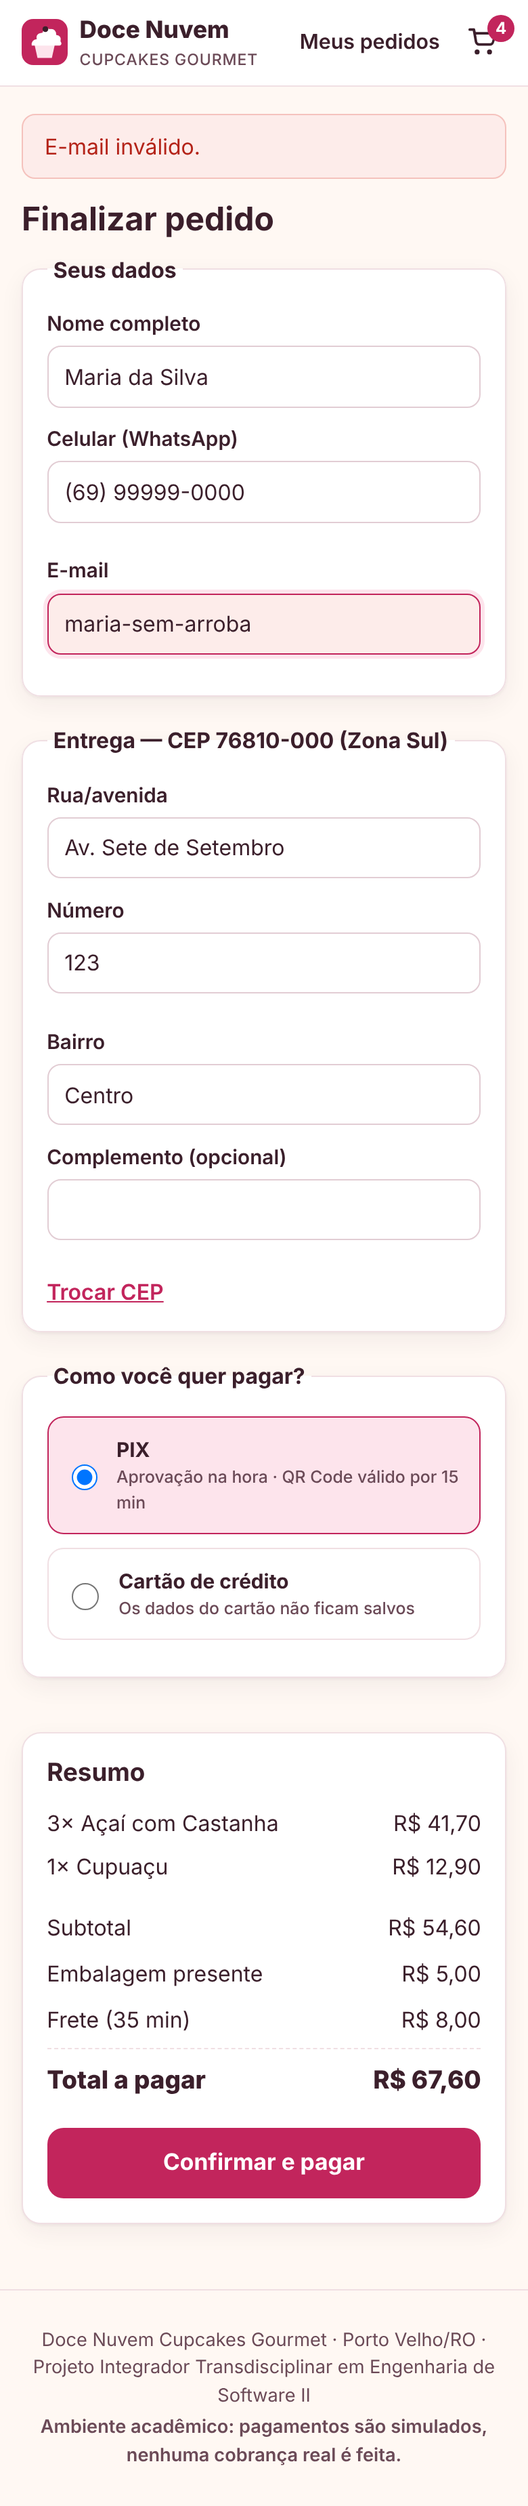
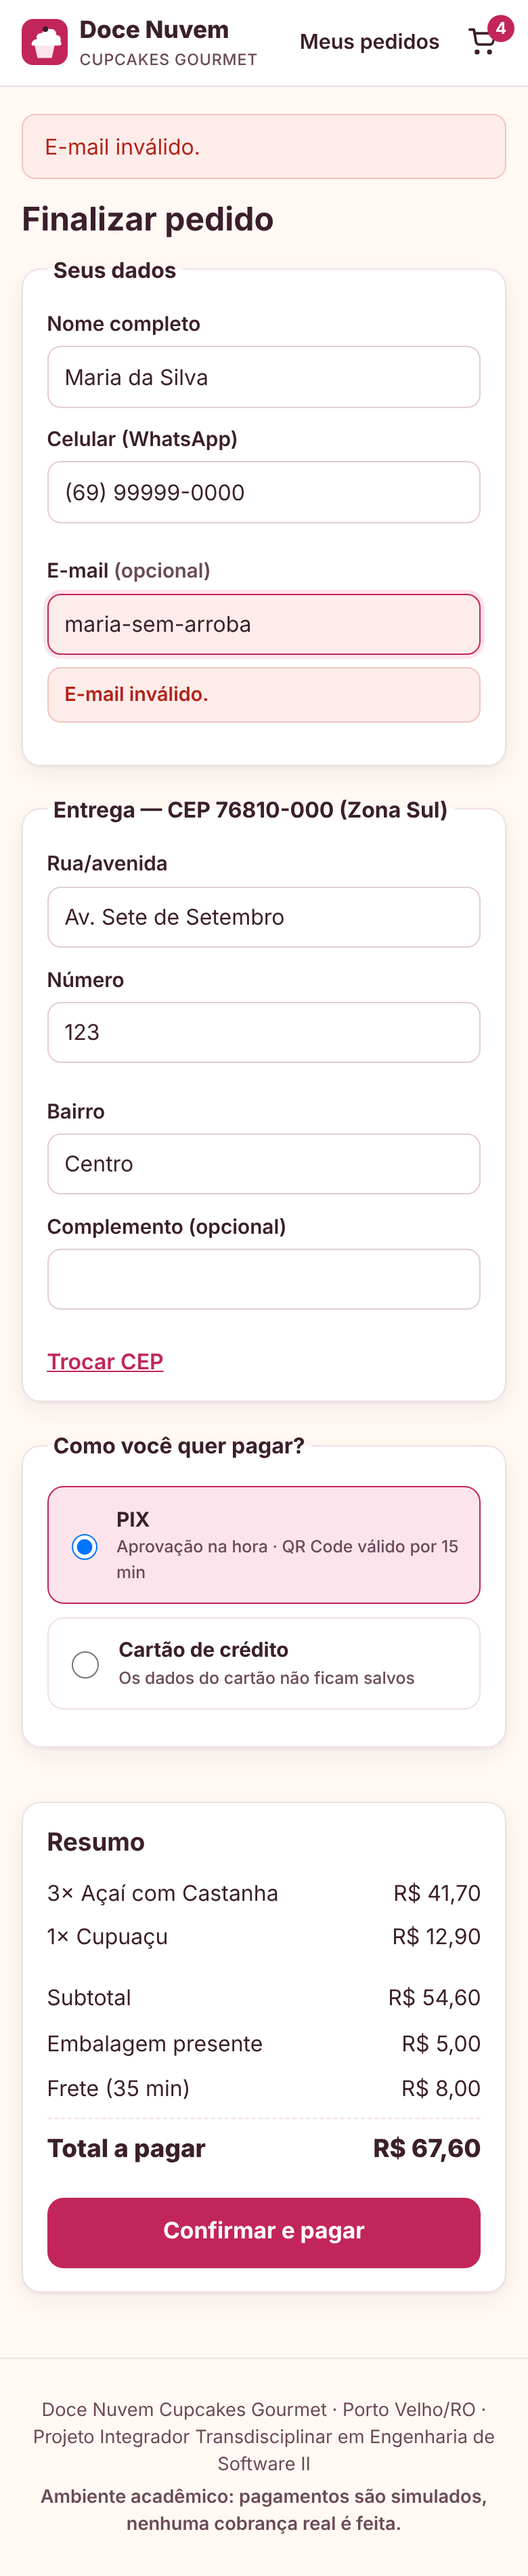
fix(v1.1): e-mail opcional e pagamento com cartão (validade MM/AAAA, erro junto ao campo) — avaliação de Fernando Miranda
Claude-Session: https://claude.ai/code/session_01KZW3ixzrm5CSdfKWyFAdsB

diff --git a/app/templates/checkout/checkout.html b/app/templates/checkout/checkout.html
@@ -1,6 +1,7 @@
 {% extends "base.html" %}
 {% block titulo %}Finalizar pedido — Doce Nuvem{% endblock %}
-{% macro invalido(campo) %}{% if erro_campo == campo %} aria-invalid="true" autofocus{% endif %}{% endmacro %}
+{% macro invalido(campo) %}{% if erro_campo == campo %} aria-invalid="true" autofocus aria-describedby="erro-{{ campo }}"{% endif %}{% endmacro %}
+{% macro msg(campo) %}{% if erro_campo == campo and erro_msg %}<p class="erro-inline" id="erro-{{ campo }}" role="alert">{{ erro_msg }}</p>{% endif %}{% endmacro %}
 {% block conteudo %}
 <h1>Finalizar pedido</h1>
 <form class="duas-colunas" method="post" action="{{ url_for('checkout.finalizar') }}" novalidate data-checkout>
@@ -9,24 +10,24 @@
     <fieldset class="caixa">
       <legend>Seus dados</legend>
       <div class="campo"><label for="nome">Nome completo</label>
-        <input id="nome" name="nome" autocomplete="name" maxlength="80" required value="{{ form.nome }}"{{ invalido('nome') }}></div>
+        <input id="nome" name="nome" autocomplete="name" maxlength="80" required value="{{ form.nome }}"{{ invalido('nome') }}>{{ msg('nome') }}</div>
       <div class="grade-2">
         <div class="campo"><label for="telefone">Celular (WhatsApp)</label>
-          <input id="telefone" name="telefone" inputmode="tel" autocomplete="tel" placeholder="(69) 99999-0000" maxlength="15" required value="{{ form.telefone }}" data-mascara-telefone{{ invalido('telefone') }}></div>
-        <div class="campo"><label for="email">E-mail</label>
-          <input id="email" name="email" type="email" autocomplete="email" maxlength="120" required value="{{ form.email }}"{{ invalido('email') }}></div>
+          <input id="telefone" name="telefone" inputmode="tel" autocomplete="tel" placeholder="(69) 99999-0000" maxlength="15" required value="{{ form.telefone }}" data-mascara-telefone{{ invalido('telefone') }}>{{ msg('telefone') }}</div>
+        <div class="campo"><label for="email">E-mail <small class="muted">(opcional)</small></label>
+          <input id="email" name="email" type="email" autocomplete="email" maxlength="120" value="{{ form.email }}"{{ invalido('email') }}>{{ msg('email') }}</div>
       </div>
     </fieldset>
 
     <fieldset class="caixa">
       <legend>Entrega — CEP {{ cep|cep }} ({{ zona.nome }})</legend>
       <div class="campo"><label for="logradouro">Rua/avenida</label>
-        <input id="logradouro" name="logradouro" autocomplete="address-line1" maxlength="120" required value="{{ form.logradouro }}"{{ invalido('logradouro') }}></div>
+        <input id="logradouro" name="logradouro" autocomplete="address-line1" maxlength="120" required value="{{ form.logradouro }}"{{ invalido('logradouro') }}>{{ msg('logradouro') }}</div>
       <div class="grade-2">
         <div class="campo"><label for="numero">Número</label>
-          <input id="numero" name="numero" maxlength="10" required value="{{ form.numero }}"{{ invalido('numero') }}></div>
+          <input id="numero" name="numero" maxlength="10" required value="{{ form.numero }}"{{ invalido('numero') }}>{{ msg('numero') }}</div>
         <div class="campo"><label for="bairro">Bairro</label>
-          <input id="bairro" name="bairro" maxlength="60" required value="{{ form.bairro }}"{{ invalido('bairro') }}></div>
+          <input id="bairro" name="bairro" maxlength="60" required value="{{ form.bairro }}"{{ invalido('bairro') }}>{{ msg('bairro') }}</div>
       </div>
       <div class="campo"><label for="complemento">Complemento (opcional)</label>
         <input id="complemento" name="complemento" maxlength="60" value="{{ form.complemento }}"></div>
@@ -35,6 +36,7 @@
 
     <fieldset class="caixa{% if erro_campo in ('metodo','pagamento','numero_cartao','validade','cvv','nome_cartao') %} caixa--erro{% endif %}">
       <legend>Como você quer pagar?</legend>
+      {{ msg('pagamento') }}{{ msg('metodo') }}
       <label class="opcao"><input type="radio" name="metodo" value="PIX" {% if form.metodo != 'CARTAO' %}checked{% endif %} data-metodo>
         <span><strong>PIX</strong><small>Aprovação na hora · QR Code válido por 15 min</small></span></label>
       <label class="opcao"><input type="radio" name="metodo" value="CARTAO" {% if form.metodo == 'CARTAO' %}checked{% endif %} data-metodo>
@@ -42,14 +44,14 @@
 
       <div class="cartao" data-cartao {% if form.metodo != 'CARTAO' %}hidden{% endif %}>
         <div class="campo"><label for="numero_cartao">Número do cartão</label>
-          <input id="numero_cartao" name="numero_cartao" inputmode="numeric" autocomplete="cc-number" maxlength="23" placeholder="0000 0000 0000 0000" data-mascara-cartao{{ invalido('numero_cartao') }}></div>
+          <input id="numero_cartao" name="numero_cartao" inputmode="numeric" autocomplete="cc-number" maxlength="23" placeholder="0000 0000 0000 0000" data-mascara-cartao{{ invalido('numero_cartao') }}>{{ msg('numero_cartao') }}</div>
         <div class="campo"><label for="nome_cartao">Nome impresso no cartão</label>
-          <input id="nome_cartao" name="nome_cartao" autocomplete="cc-name" maxlength="60"{{ invalido('nome_cartao') }}></div>
+          <input id="nome_cartao" name="nome_cartao" autocomplete="cc-name" maxlength="60"{{ invalido('nome_cartao') }}>{{ msg('nome_cartao') }}</div>
         <div class="grade-2">
           <div class="campo"><label for="validade">Validade</label>
-            <input id="validade" name="validade" inputmode="numeric" autocomplete="cc-exp" placeholder="MM/AA" maxlength="7" data-mascara-validade{{ invalido('validade') }}></div>
+            <input id="validade" name="validade" inputmode="numeric" autocomplete="cc-exp" placeholder="MM/AA ou MM/AAAA" maxlength="7" data-mascara-validade{{ invalido('validade') }}>{{ msg('validade') }}</div>
           <div class="campo"><label for="cvv">CVV</label>
-            <input id="cvv" name="cvv" inputmode="numeric" autocomplete="cc-csc" maxlength="4"{{ invalido('cvv') }}></div>
+            <input id="cvv" name="cvv" inputmode="numeric" autocomplete="cc-csc" maxlength="4"{{ invalido('cvv') }}>{{ msg('cvv') }}</div>
         </div>
         <p class="muted">Ambiente de teste: use <code>4111 1111 1111 1111</code> (aprovado) ou <code>4000 0000 0000 0002</code> (recusado).</p>
       </div>

diff --git a/app/static/css/style.css b/app/static/css/style.css
@@ -205,3 +205,4 @@ input:focus, textarea:focus { border-color: var(--framboesa); outline: none; box
 .destaque-presente { background: var(--ambar-claro); padding: .4rem .6rem; border-radius: 8px; font-weight: 700; }
 
 @media (prefers-reduced-motion: reduce) { * { animation: none !important; transition: none !important; } }
+fieldset .erro-inline[role="alert"] { background: var(--erro-claro); border: 1px solid #f5c2bd; border-radius: 10px; padding: .55rem .75rem; font-weight: 600; }

diff --git a/tests_front/utils.test.js b/tests_front/utils.test.js
@@ -34,7 +34,8 @@ test('máscara de cartão agrupa de 4 em 4', () => {
 test('máscara de validade MM/AA', () => {
   assert.equal(U.mascaraValidade('1'), '1');
   assert.equal(U.mascaraValidade('1235'), '12/35');
-  assert.equal(U.mascaraValidade('12/3599'), '12/35');
+  assert.equal(U.mascaraValidade('122030'), '12/2030');   // ano com 4 dígitos (v1.1)
+  assert.equal(U.mascaraValidade('12/203099'), '12/2030');
 });
 
 test('algoritmo de Luhn igual ao do back-end', () => {

diff --git a/app/static/js/utils.js b/app/static/js/utils.js
@@ -34,8 +34,10 @@
     return d.replace(/(.{4})/g, '$1 ').trim();
   }
 
+  /** aceita MM/AA e MM/AAAA. Antes (v1.0) cortava em 4 dígitos: quem digitava 12/2030
+   *  ficava com 12/20 e recebia "Cartão vencido" (defeito relatado por Fernando Miranda). */
   function mascaraValidade(texto) {
-    var d = soDigitos(texto).slice(0, 4);
+    var d = soDigitos(texto).slice(0, 6);
     return d.length > 2 ? d.slice(0, 2) + '/' + d.slice(2) : d;
   }
 

diff --git a/tests/test_integracao.py b/tests/test_integracao.py
@@ -155,6 +155,26 @@ def test_uc04_cartao_nunca_e_salvo_completo(client, csrf, app):
     assert "cvv" not in dump.lower()               # não existe nem coluna de CVV
 
 
+def test_v11_email_e_opcional(client, csrf, app):
+    """Fernando Miranda: e-mail não precisa ser obrigatório."""
+    encher_carrinho_e_frete(client, csrf)
+    r = client.post("/checkout/", data={**DADOS_CLIENTE, "email": "", "_csrf": csrf, "metodo": "CARTAO",
+                                        "numero_cartao": "4111111111111111", "nome_cartao": "MARIA", "validade": "12/35", "cvv": "123"})
+    assert r.status_code == 302
+    with app.app_context():
+        from app.db import get_db
+        assert get_db().execute("SELECT email FROM cliente").fetchone()[0] == ""
+
+
+def test_v11_erro_do_cartao_aparece_junto_ao_pagamento(client, csrf):
+    """Fernando Miranda não conseguiu pagar com cartão: no celular a mensagem ficava só no topo da página."""
+    encher_carrinho_e_frete(client, csrf)
+    html = client.post("/checkout/", data={**DADOS_CLIENTE, "_csrf": csrf, "metodo": "CARTAO",
+                                           "numero_cartao": "4111111111111111", "nome_cartao": "MARIA",
+                                           "validade": "12/20", "cvv": "123"}).get_data(as_text=True)
+    assert re.search(r'id="validade"[^>]*aria-invalid="true"[^>]*>\s*<p class="erro-inline" id="erro-validade" role="alert">Cartão vencido.', html)
+
+
 def test_uc04_cartao_recusado_nao_cria_pedido(client, csrf, app):
     encher_carrinho_e_frete(client, csrf)
     r = client.post("/checkout/", data={**DADOS_CLIENTE, "_csrf": csrf, "metodo": "CARTAO",
@@ -391,7 +411,8 @@ def test_v11_migracao_preserva_pedidos_de_banco_antigo(tmp_path):
         db = get_db()
         assert db.execute("SELECT COUNT(*) FROM pedido WHERE codigo='ANTIGO01'").fetchone()[0] == 1
         assert db.execute("SELECT COUNT(*) FROM cupcake").fetchone()[0] == 15
-        assert db.execute("PRAGMA user_version").fetchone()[0] == 2
+        assert db.execute("PRAGMA user_version").fetchone()[0] == 3
+        assert db.execute("SELECT COUNT(*) FROM cliente").fetchone()[0] == 1
     create_app(TestConfig, DATABASE=str(caminho))  # segunda vez: nada a migrar, nada duplica
     con = sqlite3.connect(caminho)
     assert con.execute("SELECT COUNT(*) FROM cupcake").fetchone()[0] == 15

diff --git a/app/controllers/checkout.py b/app/controllers/checkout.py
@@ -78,10 +78,12 @@ def finalizar():
         )
     except ValidacaoErro as e:
         flash(e.mensagem, "erro")
-        return render_template("checkout/checkout.html", **resumo, form=seguro, erro_campo=e.campo), 422
+        return render_template("checkout/checkout.html", **resumo, form=seguro, erro_campo=e.campo,
+                               erro_msg=e.mensagem), 422
     except RegraNegocioErro as e:
         flash(e.mensagem, "erro")
-        return render_template("checkout/checkout.html", **resumo, form=seguro, erro_campo="pagamento"), 422
+        return render_template("checkout/checkout.html", **resumo, form=seguro, erro_campo="pagamento",
+                               erro_msg=e.mensagem), 422
 
     current_app.logger.info("Pedido %s criado (%s)", codigo, pagamento["metodo"])
     for chave in ("carrinho", "embalagem_presente", "mensagem_presente", "checkout_form"):

diff --git a/app/services/validacao.py b/app/services/validacao.py
@@ -25,7 +25,7 @@ def validar_cliente(dados: dict) -> dict:
     if len(telefone) not in (10, 11):
         raise ValidacaoErro("Telefone deve ter DDD + número (10 ou 11 dígitos).", campo="telefone")
     email = (dados.get("email") or "").strip().lower()
-    if not _EMAIL_RE.match(email) or len(email) > 120:
+    if email and (not _EMAIL_RE.match(email) or len(email) > 120):  # opcional desde a v1.1
         raise ValidacaoErro("E-mail inválido.", campo="email")
     return {"nome": nome, "telefone": telefone, "email": email}
 

diff --git a/app/db.py b/app/db.py
@@ -66,6 +66,7 @@ def aplicar_migracoes(db=None) -> list[str]:
             if "enfeite" not in cols:
                 db.execute("ALTER TABLE cupcake ADD COLUMN enfeite TEXT NOT NULL DEFAULT 'cereja' CHECK (enfeite IN "
                            "('cereja','morango','chocolate','limao','ervas','acai','cupuacu','coco','nenhum'))")
+        db.commit()
         db.executescript(arq.read_text(encoding="utf-8"))
         db.execute(f"PRAGMA user_version = {numero}")
         db.commit()

diff --git a/tests_e2e/test_sistema_navegador.py b/tests_e2e/test_sistema_navegador.py
@@ -202,7 +202,7 @@ def test_cartao_recusado_e_carrinho_vazio(servidor, navegador):
     page.fill("#validade", "12/35")
     page.fill("#cvv", "123")
     page.click("[data-enviar]")
-    assert page.inner_text(".erro-inline") == "Número do cartão inválido."
+    expect(page.locator("#numero_cartao ~ .erro-inline")).to_have_text("Número do cartão inválido.")
 
     page.goto(servidor + "/nao-existe")
     _foto(page, "15-erro-404", pagina_inteira=False)

diff --git a/tests/test_unit_servicos.py b/tests/test_unit_servicos.py
@@ -130,6 +130,10 @@ def test_validar_cartao_erros(numero, validade, cvv, nome, campo):
     assert e.value.campo == campo
 
 
+def test_validade_com_ano_de_4_digitos():
+    assert validar_cartao("4111111111111111", "12/2030", "123", "MARIA", hoje=date(2026, 11, 17)) == "1111"
+
+
 def test_cartao_do_mes_corrente_ainda_vale():
     assert validar_cartao("4111111111111111", "11/26", "123", "MARIA", hoje=date(2026, 11, 17)) == "1111"
 

diff --git a/docs/03-situacao-3-testes-validacao/03-resultado-avaliacoes.md b/docs/03-situacao-3-testes-validacao/03-resultado-avaliacoes.md
@@ -7,7 +7,7 @@
 | 1 | Nataska Wanssa | 17/11/2026 | | (a) Ao filtrar "Regionais", a busca digitada antes continuava aplicada. (b) A busca não era automática: só filtrava ao clicar em "Buscar". (c) Os regionais tinham imagens iguais às dos outros. (d) Faltavam bebidas: água e Coca normal. | | (a) Trocar de categoria limpa a busca, e há o link "✕ Limpar busca". (b) Busca ao vivo enquanto digita, sem diferenciar acentos e maiúsculas. (c) Cada sabor ganhou um enfeite próprio: açaí com castanha, cupuaçu aberto, coco, morango, limão, chocolate e ervas. (d) Nova categoria **Bebidas** com água sem gás, água com gás, Coca-Cola e Coca-Cola Zero. |
 | 2 | Leopoldo Fuji | | | | | |
 | 3 | Leonardo Gobbi | 17/11/2026 | | Não gostou do estilo das imagens; preferia fotos mais realistas, porque as ilustrações não estavam atrativas. | | Ilustrações refeitas com volume: gradientes, cobertura em camadas, brilho e sombra. **Fotos reais ficaram no Roadmap (v1.3):** precisam ser fotos dos produtos da própria loja. Usar fotos de banco de imagens mostraria ao cliente um produto que ele não vai receber, o que contraria a US01. |
-| 4 | Fernando Miranda | | | | | |
+| 4 | Fernando Miranda | 17/11/2026 | | (a) Não gostou de o e-mail ser obrigatório. (b) Não conseguiu comprar com cartão. | | (a) E-mail passou a ser **opcional** (validado só se preenchido); a tabela `cliente` foi recriada pela migração 003, preservando os dados. (b) Causa encontrada: a máscara da validade cortava o ano em 2 dígitos, então quem digitava **12/2030** ficava com **12/20** e recebia "Cartão vencido". Além disso, a mensagem de erro aparecia só no topo da página, fora da vista no celular. Correções: a máscara aceita MM/AAAA, e o erro agora aparece **ao lado do campo** e da seção de pagamento. |
 | 5 | Luiz Cláudio | 17/11/2026 | | Digitou um CEP diferente do sugerido no roteiro e o frete foi recusado. | | Causa: a faixa da zona Centro começava em 76800-001 e excluía **76800-000**, o CEP geral de Porto Velho. Faixa corrigida por migração do banco, e a mensagem agora informa os CEPs atendidos ("76800-000 a 76834-999"). CEPs de outras cidades continuam recusados, como manda a regra de negócio (US08). |
 
 ## Melhorias incorporadas após as avaliações (versão 1.1)
@@ -20,5 +20,7 @@
 | Água e Coca | Nataska | ✅ Feito (categoria Bebidas) | `test_v11_categoria_bebidas_com_agua_e_coca`, `test_v11_bebida_vai_ao_carrinho_e_ao_pedido` |
 | Imagens mais atrativas | Leonardo | ✅ Parcial: ilustrações com volume. Fotos reais → Roadmap v1.3 | captura `13-vitrine-desktop.png` |
 | CEP de Porto Velho recusado | Luiz Cláudio | ✅ Corrigido | `test_v11_cep_geral_de_porto_velho_e_aceito` |
+| E-mail opcional | Fernando | ✅ Feito | `test_v11_email_e_opcional` |
+| Compra com cartão falhando | Fernando | ✅ Corrigido (validade MM/AAAA + erro junto ao campo) | `test_validade_com_ano_de_4_digitos`, `test_v11_erro_do_cartao_aparece_junto_ao_pagamento`, teste de front `mascaraValidade` |
 
 A atualização foi feita **sem apagar os pedidos dos testadores**: o banco ganhou controle de versão (`PRAGMA user_version`) e migrações em `database/migracoes/`, cobertas por `test_v11_migracao_preserva_pedidos_de_banco_antigo`.

diff --git a/docs/03-situacao-3-testes-validacao/01-plano-e-laudo-de-testes.md b/docs/03-situacao-3-testes-validacao/01-plano-e-laudo-de-testes.md
@@ -12,7 +12,7 @@
 | Sistema (ponta a ponta) | Jornada completa no navegador real, celular e desktop, cliente e lojista, sem erro de JavaScript | Playwright (Chromium) | `tests_e2e/test_sistema_navegador.py` | 2 roteiros (≈60 verificações) | ✅ 2/2 |
 | Aceitação | Uso real por 5 pessoas | Formulário de avaliação | `02-formulario-avaliacao.md` | 5 | ⏳ ver seção 6 |
 
-**Total automatizado (v1.1): 118 testes, 100% aprovados (106 pytest + 10 front-end + 2 de sistema). Cobertura de código do back-end: 93%** (relatório completo em `evidencias/pytest-unitarios-integracao.txt`).
+**Total automatizado (v1.1): 121 testes, 100% aprovados (109 pytest + 10 front-end + 2 de sistema). Cobertura de código do back-end: 93%** (relatório completo em `evidencias/pytest-unitarios-integracao.txt`).
 
 Como reproduzir:
 
@@ -73,6 +73,8 @@ python -m pytest tests_e2e -v            # sistema (gera as capturas em docs/img
 | **DEF-05** | Avaliador Luiz Cláudio | CEP 76800-000 (geral de Porto Velho) era recusado | Faixa da zona Centro começava em 76800-001 | Migração 002 corrige a faixa; mensagem informa os CEPs atendidos | `test_v11_cep_geral_de_porto_velho_e_aceito` |
 | **DEF-06** | Avaliadora Nataska Wanssa | Busca anterior continuava aplicada ao trocar de categoria | Links das categorias repassavam o termo de busca | Categorias limpam a busca; link "Limpar busca" | `test_v11_trocar_categoria_limpa_a_busca` |
 | **DEF-07** | Avaliador Leonardo Gobbi (usabilidade/estética) | Imagens pouco atrativas | Ilustrações planas e repetidas | Ilustrações com volume e enfeite por sabor; fotos reais no Roadmap | captura da vitrine v1.1 |
+| **DEF-08** | Avaliador Fernando Miranda | Não conseguia pagar com cartão | Máscara da validade limitada a 4 dígitos: 12/2030 virava 12/20 (vencido); a mensagem de erro ficava só no topo da página | Máscara MM/AA ou MM/AAAA; mensagem de erro ao lado do campo, com `role=alert` | testes de front e de integração específicos |
+| **DEF-09** | Avaliador Fernando Miranda (usabilidade) | E-mail obrigatório sem necessidade | Requisito excessivo no PIT I | E-mail opcional (migração 003 recria a tabela preservando dados) | `test_v11_email_e_opcional` |
 
 **Situação atual:** nenhum defeito conhecido em aberto nos testes automatizados. Os defeitos relatados pelos avaliadores entram na seção 6.
 
